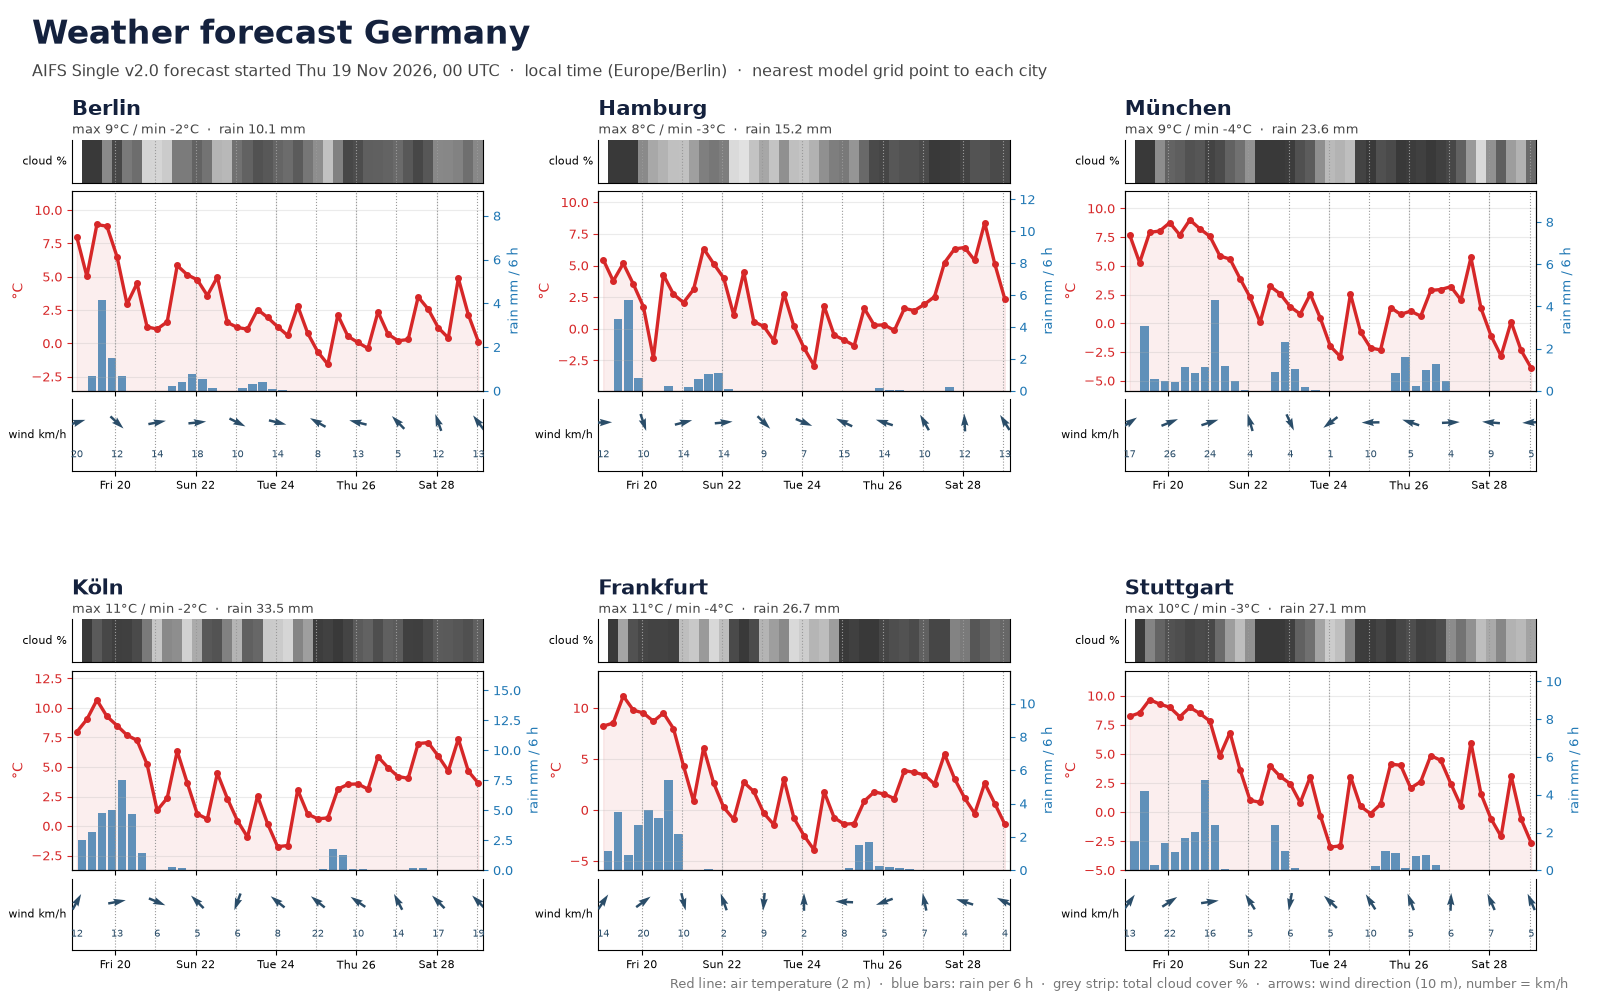
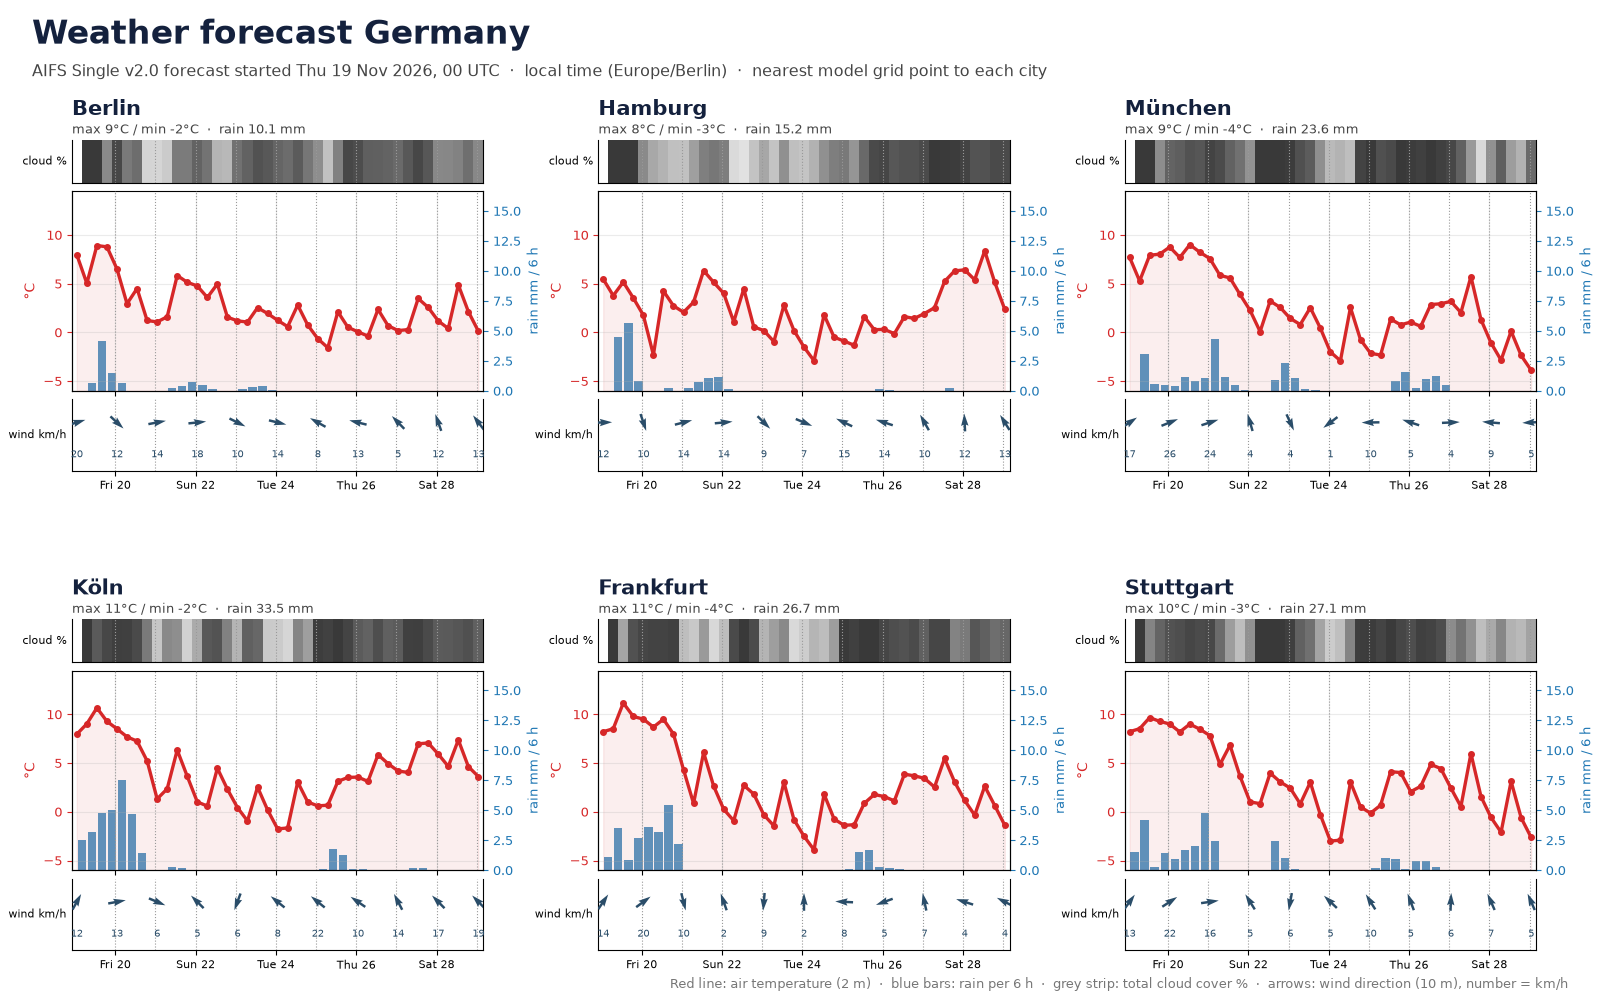
Use shared axes for all city panels on the overview card
Temperature and rain limits were scaled per city, so panels could not be
compared by eye. Compute both limits across all cities instead and
refresh the README overview example.

diff --git a/pipeline/predict_now.py b/pipeline/predict_now.py
@@ -758,25 +758,31 @@ def render_overview():
              f"({region['tz']})  ·  nearest model grid point to each city", fontsize=11.5, color="#444", va="center")
     outer = fig.add_gridspec(2, 3, left=0.045, right=0.96, top=0.86, bottom=0.05, wspace=0.28, hspace=0.45)
     ncity = len(cities)
+    # shared axes for all cities so the panels can be compared at a glance
+    idxs = [cc["idx"] for cc in cities.values()]
+    all_t = t2["vals"][:, idxs] - 273.15
+    t_lo, t_hi = np.floor(all_t.min()) - 2, np.ceil(all_t.max()) + 2.5
+    has_rain = tp is not None and len(tp["step_list"]) > 1
+    rain_hi = max(2.5, (np.maximum(np.diff(tp["vals"][:, idxs], axis=0), 0) * 1000).max() * 2.2) if has_rain else 0
     for k, (cn, cc) in enumerate(cities.items()):
         sub = outer[k // 3, k % 3].subgridspec(3, 1, height_ratios=[0.9, 4.2, 1.5], hspace=0.08)
         axc, axm, axw = (fig.add_subplot(sub[i]) for i in range(3))
         i = cc["idx"]
         temp = t2["vals"][:, i] - 273.15
         axm.plot(xs, temp, color="#d62728", lw=2.4, marker="o", ms=4, zorder=5)
-        axm.fill_between(xs, temp, temp.min() - 2, color="#d62728", alpha=0.08)
-        axm.set_ylim(temp.min() - 2, temp.max() + 2.5)
+        axm.fill_between(xs, temp, t_lo, color="#d62728", alpha=0.08)
+        axm.set_ylim(t_lo, t_hi)
         axm.set_ylabel("°C", color="#d62728", fontsize=10)
         axm.tick_params(axis="y", colors="#d62728", labelsize=9)
         axm.grid(alpha=0.25)
         head = f"max {temp.max():.0f}°C / min {temp.min():.0f}°C"
-        if tp is not None and len(tp["step_list"]) > 1:
+        if has_rain:
             acc = np.maximum(np.diff(tp["vals"][:, i]), 0) * 1000
             xe = xs[1:]
             half = np.median(np.diff(xs)) * 0.42
             axp = axm.twinx()
             axp.bar(xe - np.median(np.diff(xs)) / 2, acc, width=half * 2, color="#1f77b4", alpha=0.75, zorder=2)
-            axp.set_ylim(0, max(2.5, acc.max() * 2.2))
+            axp.set_ylim(0, rain_hi)
             axp.set_ylabel("rain mm / 6 h", color="#1f77b4", fontsize=9)
             axp.tick_params(axis="y", colors="#1f77b4", labelsize=9)
             axm.set_zorder(axp.get_zorder() + 1)
